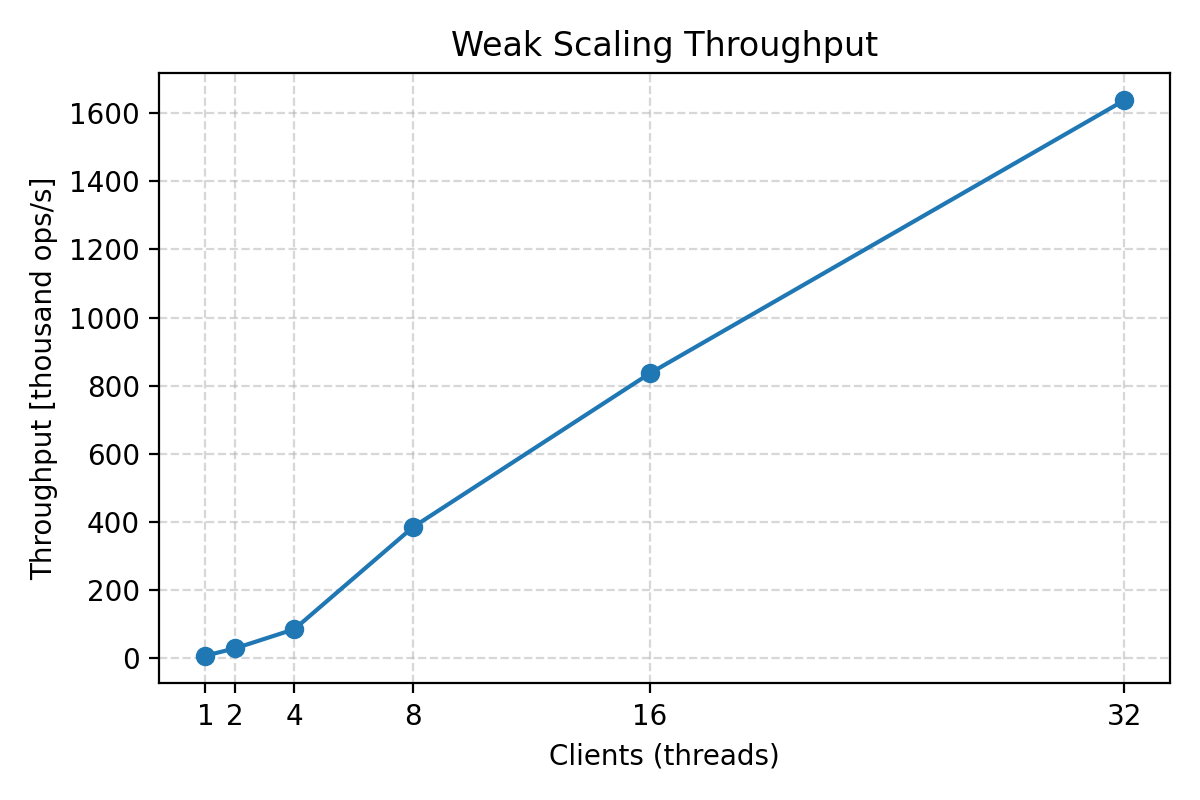
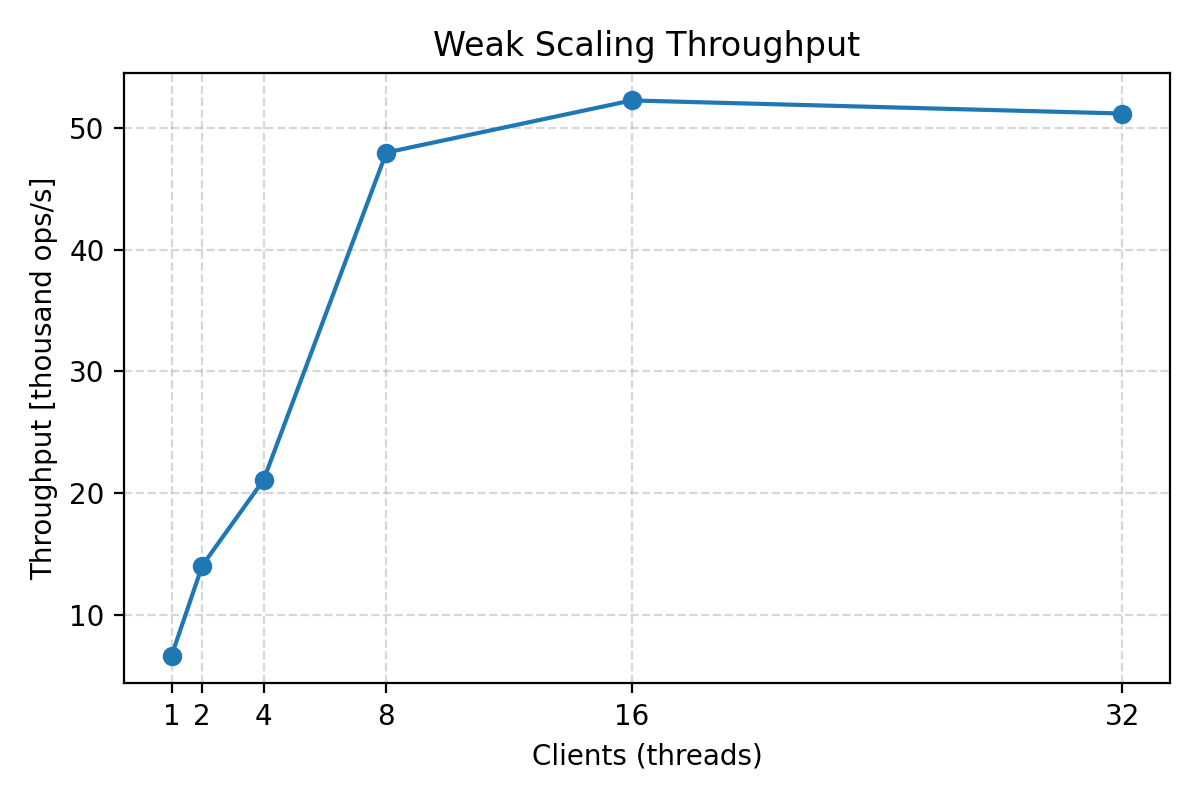
fix: now throughput in weak scaling is computed correctly

diff --git a/scripts/generate_plots.py b/scripts/generate_plots.py
@@ -33,15 +33,15 @@ def _compute_strong_metrics(entries: Iterable[dict]) -> dict[str, np.ndarray]:
     """
     Strong scaling:
       Throughput = totalSize / time
-      Speedup S_strong(p) = T1(N) / Tp(N) = throughput(p) / throughput(1)
+      Speedup S_strong(p) = throughput(p) / throughput(1)
       Efficiency E_strong(p) = S_strong(p) / p
     """
     entries = sorted(list(entries), key=lambda x: x["executedThreads"])
     threads = np.array([item["executedThreads"] for item in entries], dtype=int)
-    workload = np.array([item["totalSize"] for item in entries], dtype=float)
+    total_work = np.array([item["totalSize"] for item in entries], dtype=float)
     duration_sec = np.array([item["avgTimeMillis"] for item in entries], dtype=float) / 1000.0
 
-    throughput = workload / duration_sec
+    throughput = total_work / duration_sec
     baseline = throughput[0]
     speedup = throughput / baseline
     efficiency = speedup / threads
@@ -56,36 +56,31 @@ def _compute_strong_metrics(entries: Iterable[dict]) -> dict[str, np.ndarray]:
 
 def _compute_weak_metrics(entries: Iterable[dict]) -> dict[str, np.ndarray]:
     """
-    Weak scaling (fixed):
-      Efficiency E_weak(p) = T1(N) / Tp(pN)
-      Scaled speedup S_scaled(p) ≈ p * E_weak(p)
-      (We also compute total throughput for plotting, but 'speedup' returned here is the scaled speedup.)
+    Weak scaling (FIXED):
+      - In your JSON, 'dataSize' is the TOTAL work per run (it scales with p).
+        So don't multiply by threads again, or you'll get ~p^2 growth.
+      - Throughput = total_work / time = dataSize / time
+      - Efficiency E_weak(p) = T1(N) / Tp(pN)   (uses durations only)
+      - Scaled speedup S_scaled(p) ≈ p * E_weak(p)
     """
     entries = sorted(list(entries), key=lambda x: x["executedThreads"])
     threads = np.array([item["executedThreads"] for item in entries], dtype=int)
 
-    # Per-thread work N (at p=1) and total work pN for each entry
-    per_thread_work = np.array([item["dataSize"] for item in entries], dtype=float)
-    total_work = per_thread_work * threads
-
-    # Durations
+    total_work = np.array([item["dataSize"] for item in entries], dtype=float)  # already total per run
     duration_sec = np.array([item["avgTimeMillis"] for item in entries], dtype=float) / 1000.0
 
-    # Throughput of total work (useful to visualize), but DON'T use this to derive weak efficiency
+    # Compute throughput
     throughput = total_work / duration_sec
 
-    # Baseline T1(N) from p=1 run
-    T1N = duration_sec[0]
-
-    # Correct weak metrics
-    weak_efficiency = T1N / duration_sec                     # E_weak(p) = T1(N) / Tp(pN)
-    scaled_speedup = threads * weak_efficiency               # S_scaled(p) ≈ p * E_weak(p)
+    # Weak efficiency & scaled speedup based on time
+    T1N = duration_sec[0]                            # baseline time at p=1, size N
+    weak_efficiency = T1N / duration_sec             # E_weak(p) = T1(N) / Tp(pN)
+    scaled_speedup = threads * weak_efficiency       # S_scaled(p) ≈ p * E_weak(p)
 
     return {
         "threads": threads,
         "throughput": throughput,
-        # For plotting compatibility, expose scaled speedup under the 'speedup' key
-        "speedup": scaled_speedup,
+        "speedup": scaled_speedup,       # expose scaled speedup under 'speedup' for plotting
         "efficiency": weak_efficiency,
     }
 
@@ -114,9 +109,7 @@ def _plot_throughput(threads: np.ndarray, throughput: np.ndarray, title: str, ou
 def _plot_speedup_efficiency(metrics: dict[str, np.ndarray], title_prefix: str, outfile: Path) -> None:
     fig, axes = plt.subplots(nrows=1, ncols=2, figsize=(10, 4))
 
-    # If this is weak scaling (we passed metrics from _compute_weak_metrics),
-    # the 'speedup' is actually scaled speedup. Adjust labels accordingly.
-    is_weak = "Weak" in title_prefix
+    is_weak = "Weak" in title_prefix  # naming heuristic
 
     axes[0].plot(metrics["threads"], metrics["speedup"], marker="o")
     axes[0].set_xlabel("Clients (threads)")
